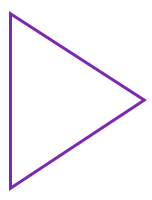
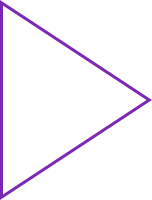
custom player mostly working

Changed region(s): [[0.0, 0.0, 1.0, 1.0]]

diff --git a/main.js b/main.js
@@ -1,7 +1,12 @@
-let searchBar = document.querySelector(".textInput");
-let button = document.querySelector(".searchBtn");
-let resultsCont = document.querySelector(".results");
-let player = document.querySelector('.music-player');
+const searchBar = document.querySelector(".textInput");
+const button = document.querySelector(".searchBtn");
+const playBtn = document.querySelector(".playBtn");
+const resultsCont = document.querySelector(".results");
+const player = document.querySelector('.music-player');
+const progressBar = document.querySelector(".progressBar");
+const volumeSlider = document.querySelector(".volume");
+let audioState = false;
+
 
 searchBar.addEventListener('keydown', function(event){
   if (event.which == 13 || event.keyCode == 13) {
@@ -13,18 +18,55 @@ searchBar.addEventListener('keydown', function(event){
 
 button.addEventListener('click', searchMusic);
 
-//The goods are below
-//
-//${artistName} ${artworkUrl100} ${trackName} ${previewUrl} ${trackViewUrl}
-// ${artistViewUrl}
-// US
+
+
+// =========== Music Player Functions ================
+
+
+function createSong(url){ /*creates the audio object*/
+  if(audioState === true)
+  {
+    audio.pause(); /*pauses old audio obj, if there is one*/
+  }
+  return audio = new Audio(url);
+}
+
+
+function toggleSong(song){  /*makes play button play/pause*/
+  if(audioState === true){
+    song.pause();
+    playBtn.setAttribute("src", "img/pause.png");
+    audioState = false;
+  }
+  else {
+    song.play();
+    playBtn.setAttribute("src", "img/playsolid.png");
+    audioState = true;
+  }
+}
+
+function playSong(song){ /* plays song and tethers progress bar to time*/
+  updateVolume();
+  song.play();
+  song.addEventListener("timeupdate", function(e){
+    progressBar.value = Math.floor(song.currentTime);
+  })
+  playBtn.setAttribute("src", "img/playsolid.png");
+  audioState = true;
+}
+
+function updateVolume(){
+  let volumeVal = volumeSlider.value / 100;
+  audio.volume = volumeVal;
+  console.log(volumeVal);
+}
+
+// =============== Search Function =====================
+
+
 
 function clearResults(){
   resultsCont.innerHTML = "";
-}
-
-function playSong(url){
-  player.setAttribute("src", url);
 }
 
 function searchMusic(){
@@ -38,21 +80,19 @@ function searchMusic(){
     .then( function (data) {
       return data.json();
     })
-    // .then( function (data) {
-    //   console.log(data)"
-    // })
     .then( function (data) {
 
       for(i=0;i<20;i++){
         let item = data.results;
         let tmpl =
           `<div class="resultItem">
-            <img class="albumArt" src="${item[i].artworkUrl100}" alt="Album Cover" onclick='playSong("${item[i].previewUrl}")'>
+            <img class="hoverPlay" src="img/playsolid.png" alt="">
+            <img class="albumArt" src="${item[i].artworkUrl100}" alt="Album Cover" onclick='playSong(createSong("${item[i].previewUrl}"))'>
             <a class="songTitle" href="${item[i].trackViewUrl}"><p>${item[i].trackName}</p></a>
             <a class="artistName" href="${item[i].artistViewUrl}"><p>${item[i].artistName}</p></a>
           </div>`;
 
-          resultsCont.innerHTML += tmpl;
+        resultsCont.innerHTML += tmpl;
       }
     })
     searchBar.value = "";

diff --git a/styles.css b/styles.css
@@ -42,9 +42,78 @@ h3 {
   left: -25px;
 }
 
-
 /*make this cooler!!*/
 
+.myPlayer {
+  position: absolute;
+  right: 5%;
+  top: 40px;
+}
+
+.playCont {
+  border: 1px solid rgb(123, 41, 180);
+  border-radius: 10px;
+  height: 60px;
+  width: 300px;
+}
+
+.playBtn {
+  height: 50px;
+  position: absolute;
+  top: 5px;
+  left: 25px;
+}
+
+.progressBar {
+  -webkit-appearance: none;
+  appearance: none;
+  position: absolute;
+  left: 77px;
+  top: 0;
+  height: 20px;
+}
+
+.progressBar::-webkit-progress-value {
+  background-color: rgb(123, 41, 180);
+  border-radius: 5px;
+
+}
+.progressBar::-webkit-progress-bar {
+  border: 1px solid #7b29b4;
+  background-color: rgba(123, 41, 180, 0.25);
+  border-radius: 5px;
+}
+
+.volume {
+  position: absolute;
+  right: 10px;
+  top: 25px;
+  transform: rotateZ(-90deg);
+  width: 50px;
+  -webkit-appearance: none;
+  background: transparent;
+  border: 1px solid rgb(123, 41, 180);
+  height: 8px;
+}
+
+.volume:focus {
+  outline: none;
+}
+
+.volume::-webkit-slider-thumb {
+  -webkit-appearance: none;
+  width: 10px;
+  height: 10px;
+  background-color: rgb(123, 41, 180);
+}
+
+.volume::-webkit-slider
+
+
+
+/*====== old ======
+
+*/
 .music-player {
   width: 50%;
   height: 55px;
@@ -117,14 +186,22 @@ hr {
   text-align: center;
 }
 
+.hoverPlay {
+  opacity: 1;
+  position: absolute;
+  width: 50px;
+}
+
 .albumArt {
   width: 100%;
   margin: 0 auto;
   box-shadow: 0px 5px 15px 3px rgba(0, 0, 0, 0.26);
+  transition: .3s;
 }
 
 .albumArt:hover {
-  background-image: radial-gradient(0deg, rgba(0, 0, 0, 0.38), rgba(0, 0, 0, 0.13));
+  opacity: .7;
+  transition: .3s;
 }
 
 .resultItem>a {

diff --git a/index.html b/index.html
@@ -16,15 +16,17 @@
         <h3>Find Your Tune.</h3>
       </div>
 
-      <!-- <div class="myPlayer">
+      <div class="myPlayer">
         <div class="playCont">
-
+          <img class="playBtn" src="img/play.png" alt="" onclick="toggleSong(audio)">
+          <progress class="progressBar"value="0" max="29"></progress>
+          <input type="range" name="volume" class="volume" onchange="updateVolume()">
         </div>
-      </div> -->
+      </div>
 
-      <section class="player">
+      <!-- <section class="player">
         <audio class="music-player" controls="controls" autoplay="true" src=""></audio>
-      </section>
+      </section> -->
     </header>
     <hr>
     <section class="search">
